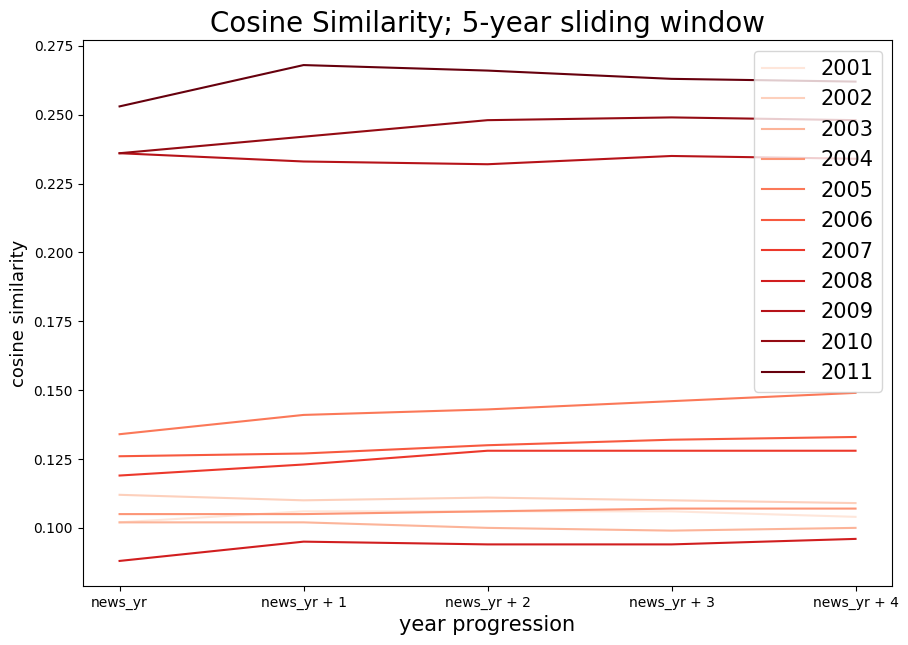
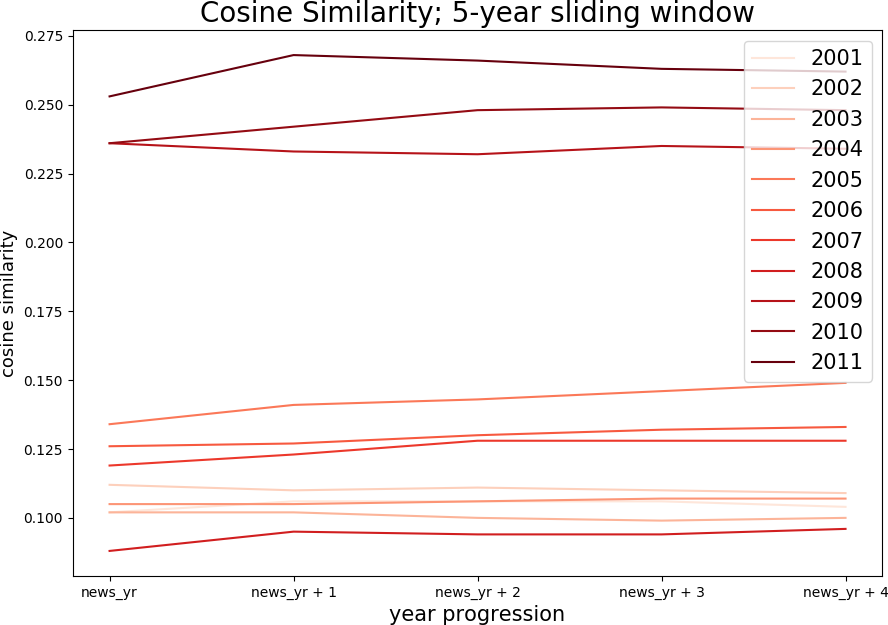
Update readme [skip ci]

diff --git a/Part_2_0_Analytics_bow_approach.py b/Part_2_0_Analytics_bow_approach.py
@@ -409,7 +409,7 @@ if __name__ == "__main__":
     jpic.set_xlabel(str('year progression'), fontsize=15)
     jpic.set_ylabel(str('Jaccard similarity'), color='k', fontsize=13)
     plt.title('Jaccard Similarity; 5-year sliding window', fontsize=20)
-    plt.savefig('Graphs/jaccard_similarity.png', bbox_inches='tight')
+    plt.savefig('Graphs/jaccard_similarity.png', bbox_inches='tight', pad_inches=0)
     plt.show()
     # calculate cosine similarity between news and songs, using a five-year sliding window
     print('Cosine similarity:')
@@ -423,7 +423,7 @@ if __name__ == "__main__":
     cpic.set_xlabel(str('year progression'), fontsize=15)
     cpic.set_ylabel(str('cosine similarity'), color='k', fontsize=13)
     plt.title('Cosine Similarity; 5-year sliding window', fontsize=20)
-    plt.savefig('Graphs/cosine_similarity.png', bbox_inches='tight')
+    plt.savefig('Graphs/cosine_similarity.png', bbox_inches='tight', pad_inches=0)
     plt.show()
 
     print('run time:', time()-start_time)

diff --git a/README.md b/README.md
@@ -80,13 +80,11 @@
 1.2 Low Jaccard and cosine similarity further supported the different wordings in songs and news.   
 
 1.3 Trends found in each sliding window:   
-- Jaccard similarity dropped along with the time progress in each time-window. This suggested that number of words shared by both news and songs decreased in the 5 years after news being published.    
-  
-  ![jac_sim](./Graphs/jaccard_similarity.png)
+- Jaccard similarity dropped along with the time progress in each time-window. This suggested that number of words shared by both news and songs decreased in the 5 years after news being published.           
+   ![jac_sim](./Graphs/jaccard_similarity.png)
   
 - Cosine similarity remained steady in each time-window, suggesting that the two corpus shared some similar patterns in term of popular (high frequency) terms.
-  
-  ![cos_sim](./Graphs/cosine_similarity.png)
+   ![cos_sim](./Graphs/cosine_similarity.png)
 
 1.4 Trends found between 2001-2015:  
 - Both Jaccard and cosine similarity were higher in the news and songs being published more recently, as shown in the dark green and dark red lines in the graphs.
